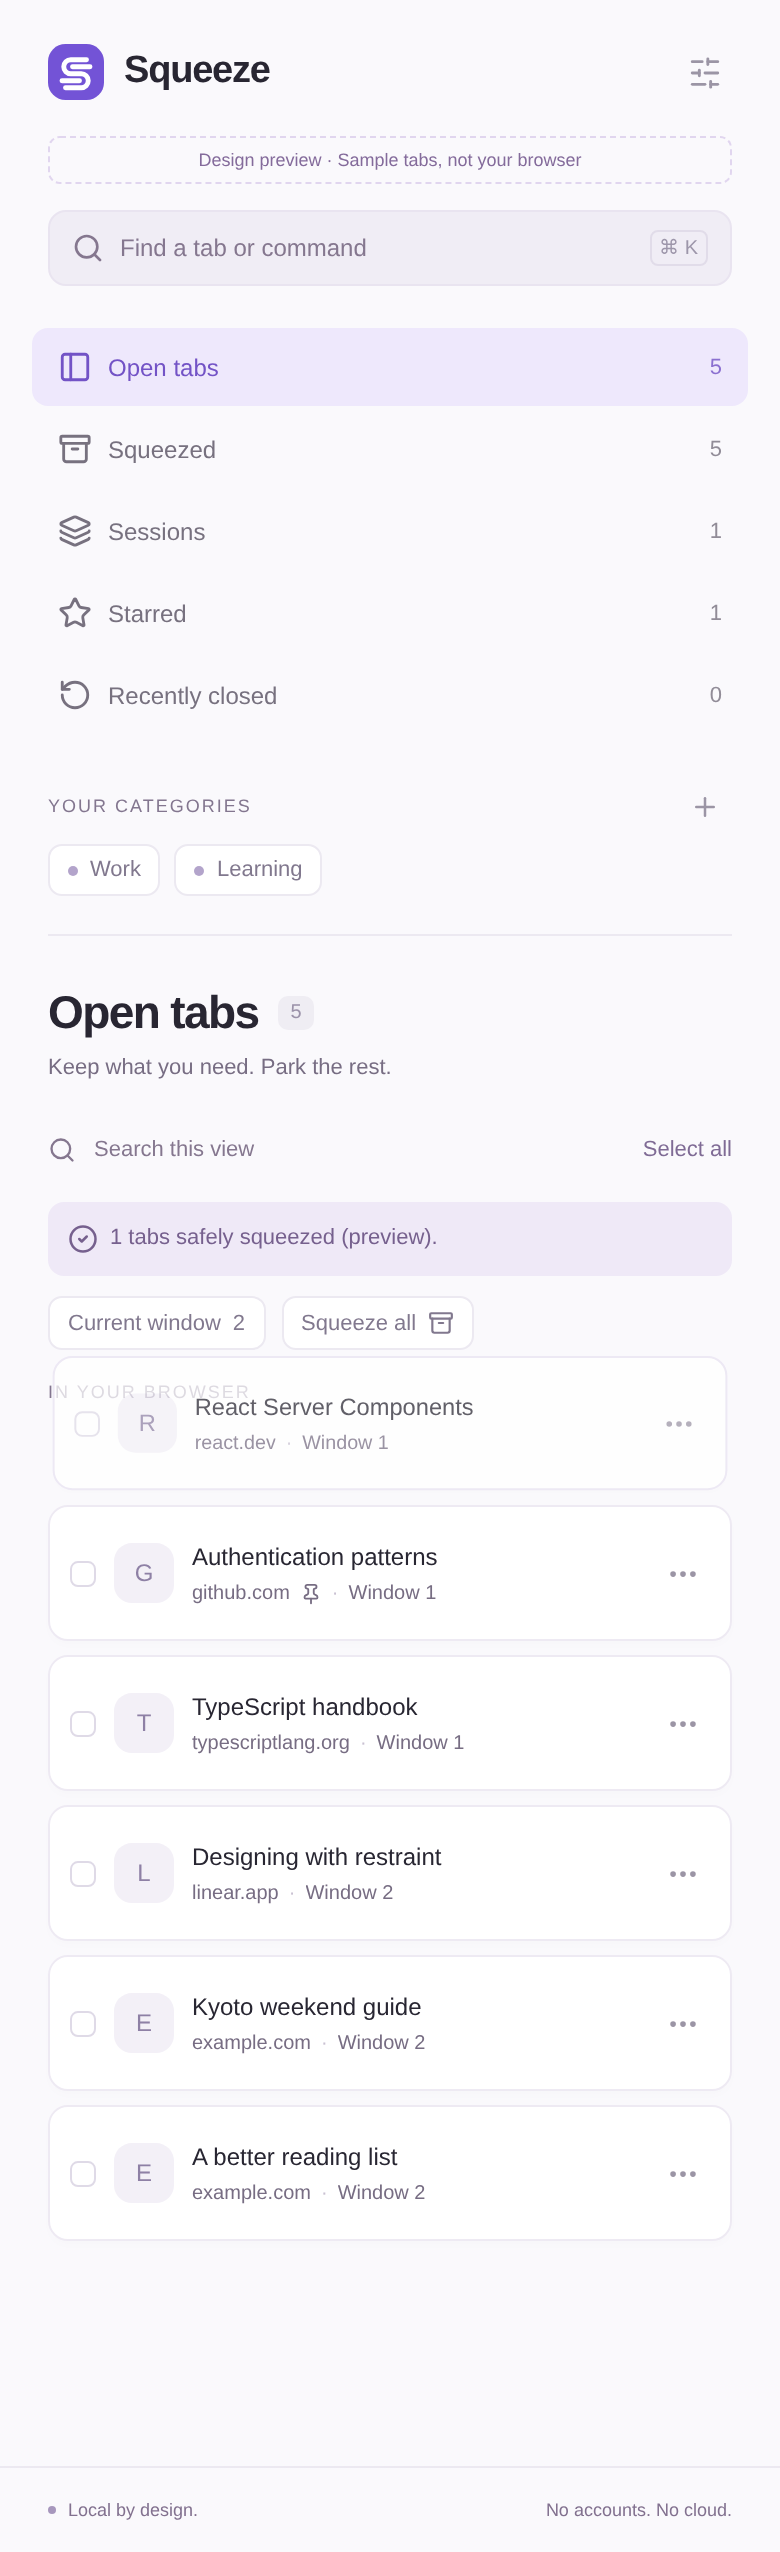
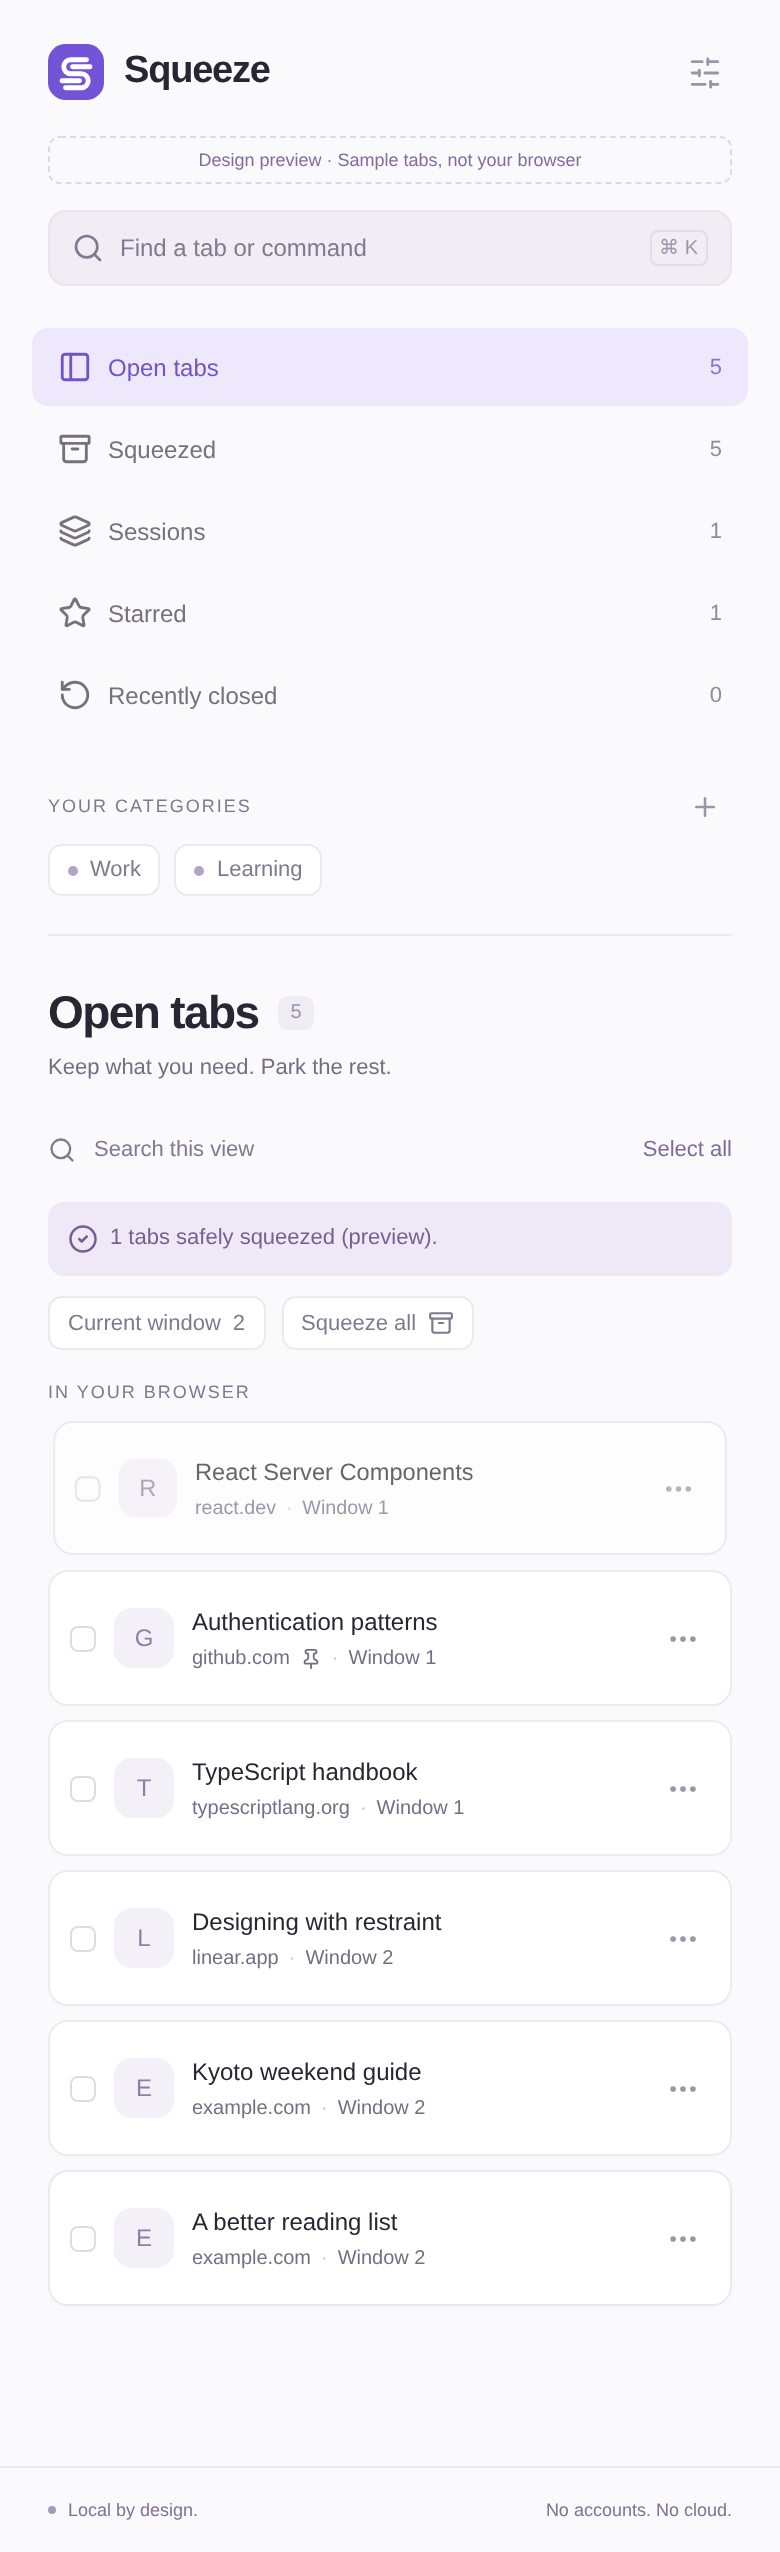
perf(popup): split panel code from lightweight popup entry

Changed region(s): [[0.2462, 0.5263, 0.5846, 0.8977]]

diff --git a/src/components/App.tsx b/src/components/App.tsx
@@ -3,8 +3,7 @@ import {AnimatePresence,motion,useReducedMotion} from 'motion/react';
 import {Archive,ArrowUpRight,Check,ChevronDown,Command,Folder,Layers,MoreHorizontal,PanelLeft,Plus,Search,SlidersHorizontal,Star,Trash2,X,Pin,RotateCcw,ExternalLink,Copy,CheckCircle2} from 'lucide-react';
 import {domain,preview,request,searchTabs} from '../lib/client';
 import type {Overview,SavedTab,LiveTab,Command as Cmd,Result} from '../types';
-function Mark(){return <svg width="28" height="28" viewBox="0 0 32 32" aria-hidden="true"><rect width="32" height="32" rx="10" fill="#7353d6"/><path d="M22 9H13a4 4 0 0 0 0 8h6a4 4 0 0 1 0 8H10M24 13H14M8 21h10" stroke="white" strokeWidth="2.8" strokeLinecap="round" fill="none"/></svg>}
-export {Mark};
+import {Mark} from './Mark';
 type View='open'|'parked'|'starred'|'recent'|'sessions';
 export function App(){
  const [data,setData]=useState<Overview>();const [view,setView]=useState<View>('parked');const [q,setQ]=useState('');const [filter,setFilter]=useState<string|null>(null);const [selected,setSelected]=useState<Set<string>>(new Set());const [busy,setBusy]=useState(false);const [status,setStatus]=useState('');const [error,setError]=useState('');const [palette,setPalette]=useState(false);const [undo,setUndo]=useState<SavedTab[]>([]);const [menu,setMenu]=useState<string|null>(null);const [dialog,setDialog]=useState<{type:'category'|'session';id?:string;name:string}|null>(null);const [help,setHelp]=useState(false);const reduced=useReducedMotion();const searchRef=useRef<HTMLInputElement>(null);

diff --git a/src/popup.tsx b/src/popup.tsx
@@ -1,7 +1,7 @@
 import {useEffect,useState} from 'react';
 import {createRoot} from 'react-dom/client';
 import {Archive,ArrowUpRight,ShieldCheck} from 'lucide-react';
-import {Mark} from './components/App';
+import {Mark} from './components/Mark';
 import {openPanel,preview,request} from './lib/client';
 import type {Overview,Result} from './types';
 import './styles.css';

diff --git a/src/components/Mark.tsx b/src/components/Mark.tsx
@@ -1,0 +1,1 @@
+export function Mark(){return <svg width="28" height="28" viewBox="0 0 32 32" aria-hidden="true"><rect width="32" height="32" rx="10" fill="#7353d6"/><path d="M22 9H13a4 4 0 0 0 0 8h6a4 4 0 0 1 0 8H10M24 13H14M8 21h10" stroke="white" strokeWidth="2.8" strokeLinecap="round" fill="none"/></svg>}

diff --git a/docs/pr-core.md b/docs/pr-core.md
@@ -1,0 +1,32 @@
+# feat: ship local-first Squeeze tab parking MVP
+
+## Summary
+A polished MV3 Chrome extension for closing tabs without losing them. Save, verify, then close. The Side Panel is the main surface; a compact popup is the entry point.
+
+## Changes
+- Actual GitHub Spec Kit scaffold, constitution, spec, research, plan, contracts and tasks.
+- Serialized local state engine, persistence read-back, URL race check, safe URL handling.
+- Single/multiple/current-window/group parking, reopen ordering, pinned state, Chrome groups.
+- Categories, sessions, stars, text search, delete/undo, best-effort recent-close records.
+- Side Panel, lightweight popup, command palette, shortcuts and minimal context menu.
+- CI, test scripts, local-only privacy documentation and honest follow-up list.
+
+## Verification
+- 12 unit tests pass.
+- Strict TypeScript and production build pass.
+- Real Chromium extension loads; saves/closes/reopens two web tabs; data survives browser restart.
+- UI checks pass: selection/squeeze, popup, palette, 360px no horizontal overflow.
+- Search test: three 1,000-record queries in 11ms on test machine.
+- Actual rendered pixels inspected; secondary text contrast improved and renders rechecked.
+
+## Screenshots
+These two renders use **labeled sample data**, not user browsing history.
+
+![Side Panel](screenshots/sidepanel.png)
+![Popup](screenshots/popup.png)
+
+## Limits
+No Chrome Web Store publishing. No AI/server/account/analytics. Unsaved form content and scroll position are not preserved. P3 features and wider real-Chrome interaction tests remain open. See convergence report for full gaps.
+
+---
+<p align="center"><strong>Squeeze</strong><br/><sub>Less clutter. Nothing lost.<br/>Local by design · Save before close · No AI</sub></p>
